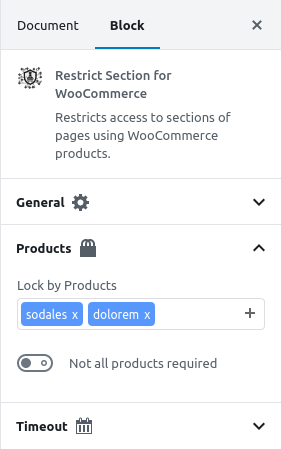
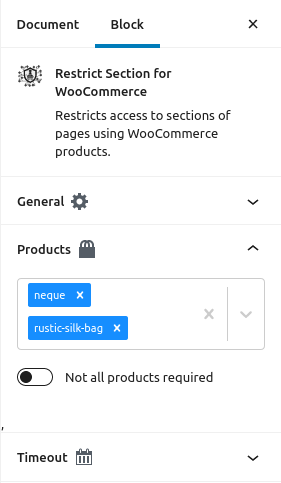
Updating quick start images.

diff --git a/admin/assets/src/js/blocks/restrict-section.js b/admin/assets/src/js/blocks/restrict-section.js
@@ -318,6 +318,70 @@ registerBlockType('page-restrict-wc/restrict-section', {
 		// 	changeAllBlocks();
 		// }
 		// return <div> Hello in Editor. </div>;
+		const colourStyles = {
+			control: styles => ({ ...styles, backgroundColor: 'white' }),
+			option: (styles, { data, isDisabled, isFocused, isSelected }) => {
+				let color = 'black';
+				if(isDisabled){
+					color = 'black';
+				}
+				else{
+					if(isSelected){
+						color = 'white';
+					}
+					else{
+						if(isFocused){
+							color = 'white';
+						}
+						else{
+							color = 'black';
+						}
+					}
+				}
+				return {
+					...styles,
+					backgroundColor: isDisabled
+						? null
+						: isSelected
+							? data.color
+							: isFocused
+								? '#168eff'
+								: null,
+					color: color,
+					cursor: isDisabled ? 'not-allowed' : 'pointer',
+
+					':active': {
+						...styles[':active'],
+						backgroundColor: !isDisabled && (isSelected ? data.color : '#168eff'),
+						color: 'white',
+
+					},
+					':focus': {
+						backgroundColor: data.color,
+						color: 'white',
+					},
+					':hover': {
+						backgroundColor: data.color,
+						color: 'white',
+					},
+				};
+			},
+			multiValue: (styles, { data }) => {
+				return {
+					...styles,
+					backgroundColor: '#168eff',
+					color: 'white',
+				};
+			},
+			multiValueLabel: (styles, { data }) => ({
+				...styles,
+				color: 'white',
+			}),
+			multiValueRemove: (styles, { data }) => ({
+				...styles,
+				color: 'white',
+			}),
+		};
 		return (
 			<div className={attributes.className} attributes={attributes}>
 				<InnerBlocks></InnerBlocks>
@@ -436,7 +500,6 @@ registerBlockType('page-restrict-wc/restrict-section', {
 							}}
 						/>
 					</PanelBody>
-					,
 					{/**
 					 * Choose which product to lock the block with.
 					 */}
@@ -447,6 +510,7 @@ registerBlockType('page-restrict-wc/restrict-section', {
 						<div>
 							{prwc_termNames.length ? (
 								<Select
+									styles={colourStyles}
 									value={attributes.products}
 									label={__(
 										'Lock by Products',
@@ -479,6 +543,7 @@ registerBlockType('page-restrict-wc/restrict-section', {
 								<br/>
 								</>
 							)}
+							<br/>
 							{disabledInput ? (
 								<Disabled>
 									<ToggleControl

diff --git a/admin/assets/src/js/sidebars/elements/MetaSelectMultipleControl.js b/admin/assets/src/js/sidebars/elements/MetaSelectMultipleControl.js
@@ -39,10 +39,76 @@ export default compose.compose(
 	const missingText = props.missingText;
 	prwc_ReactSelectElementSave[props.metaKey] = props.metaValueElement;
 	if (labels.length) {
+		const colourStyles = {
+			control: styles => ({ ...styles, backgroundColor: 'white' }),
+			option: (styles, { data, isDisabled, isFocused, isSelected }) => {
+				let color = 'black';
+				if(isDisabled){
+					color = 'black';
+				}
+				else{
+					if(isSelected){
+						color = 'white';
+					}
+					else{
+						if(isFocused){
+							color = 'white';
+						}
+						else{
+							color = 'black';
+						}
+					}
+				}
+				return {
+					...styles,
+					backgroundColor: isDisabled
+						? null
+						: isSelected
+							? data.color
+							: isFocused
+								? '#168eff'
+								: null,
+					color: color,
+					cursor: isDisabled ? 'not-allowed' : 'pointer',
+
+					':active': {
+						...styles[':active'],
+						backgroundColor: !isDisabled && (isSelected ? data.color : '#168eff'),
+						color: 'white',
+
+					},
+					':focus': {
+						backgroundColor: data.color,
+						color: 'white',
+					},
+					':hover': {
+						backgroundColor: data.color,
+						color: 'white',
+					},
+				};
+			},
+			multiValue: (styles, { data }) => {
+				return {
+					...styles,
+					backgroundColor: '#168eff',
+					color: 'white',
+				};
+			},
+			multiValueLabel: (styles, { data }) => ({
+				...styles,
+				color: 'white',
+			}),
+			multiValueRemove: (styles, { data }) => ({
+				...styles,
+				color: 'white',
+			}),
+		};
+		  
 		return (
 			<div key={Math.random()} className={'sidebar-section'}>
 				<label htmlFor="">{props.title}</label>
 				<Select
+					styles={colourStyles}
 					value={prwc_ReactSelectElementSave[props.metaKey]}
 					isMulti
 					name="colors"

diff --git a/admin/assets/src/js/sidebars/plugin.js b/admin/assets/src/js/sidebars/plugin.js
@@ -335,7 +335,6 @@ window.onload = function (params) {
 					)}
 				/>
 				<br />
-				<br />
 				<MetaToggleControl
 					metaKey={'prwc_not_all_products_required'}
 					title={__(
